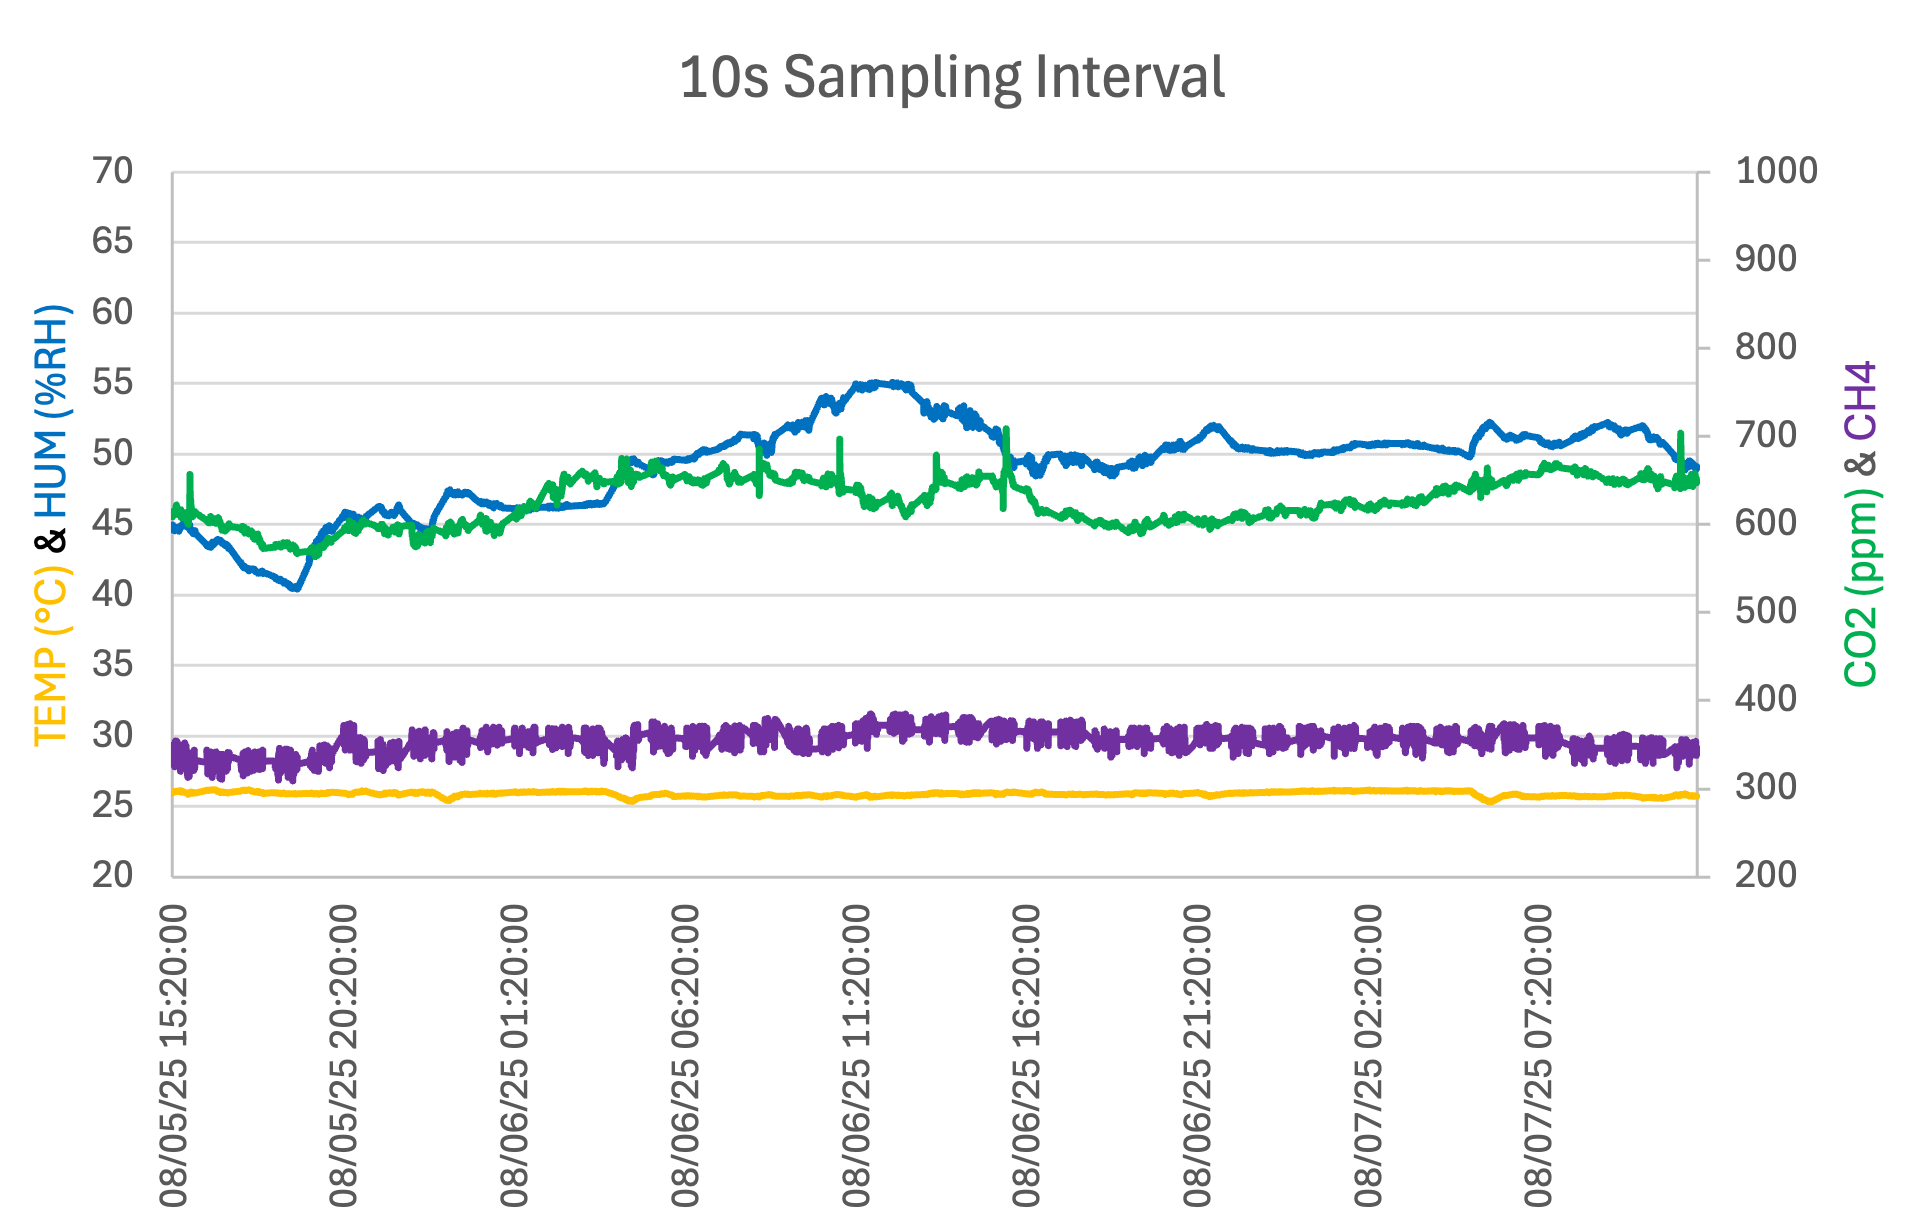
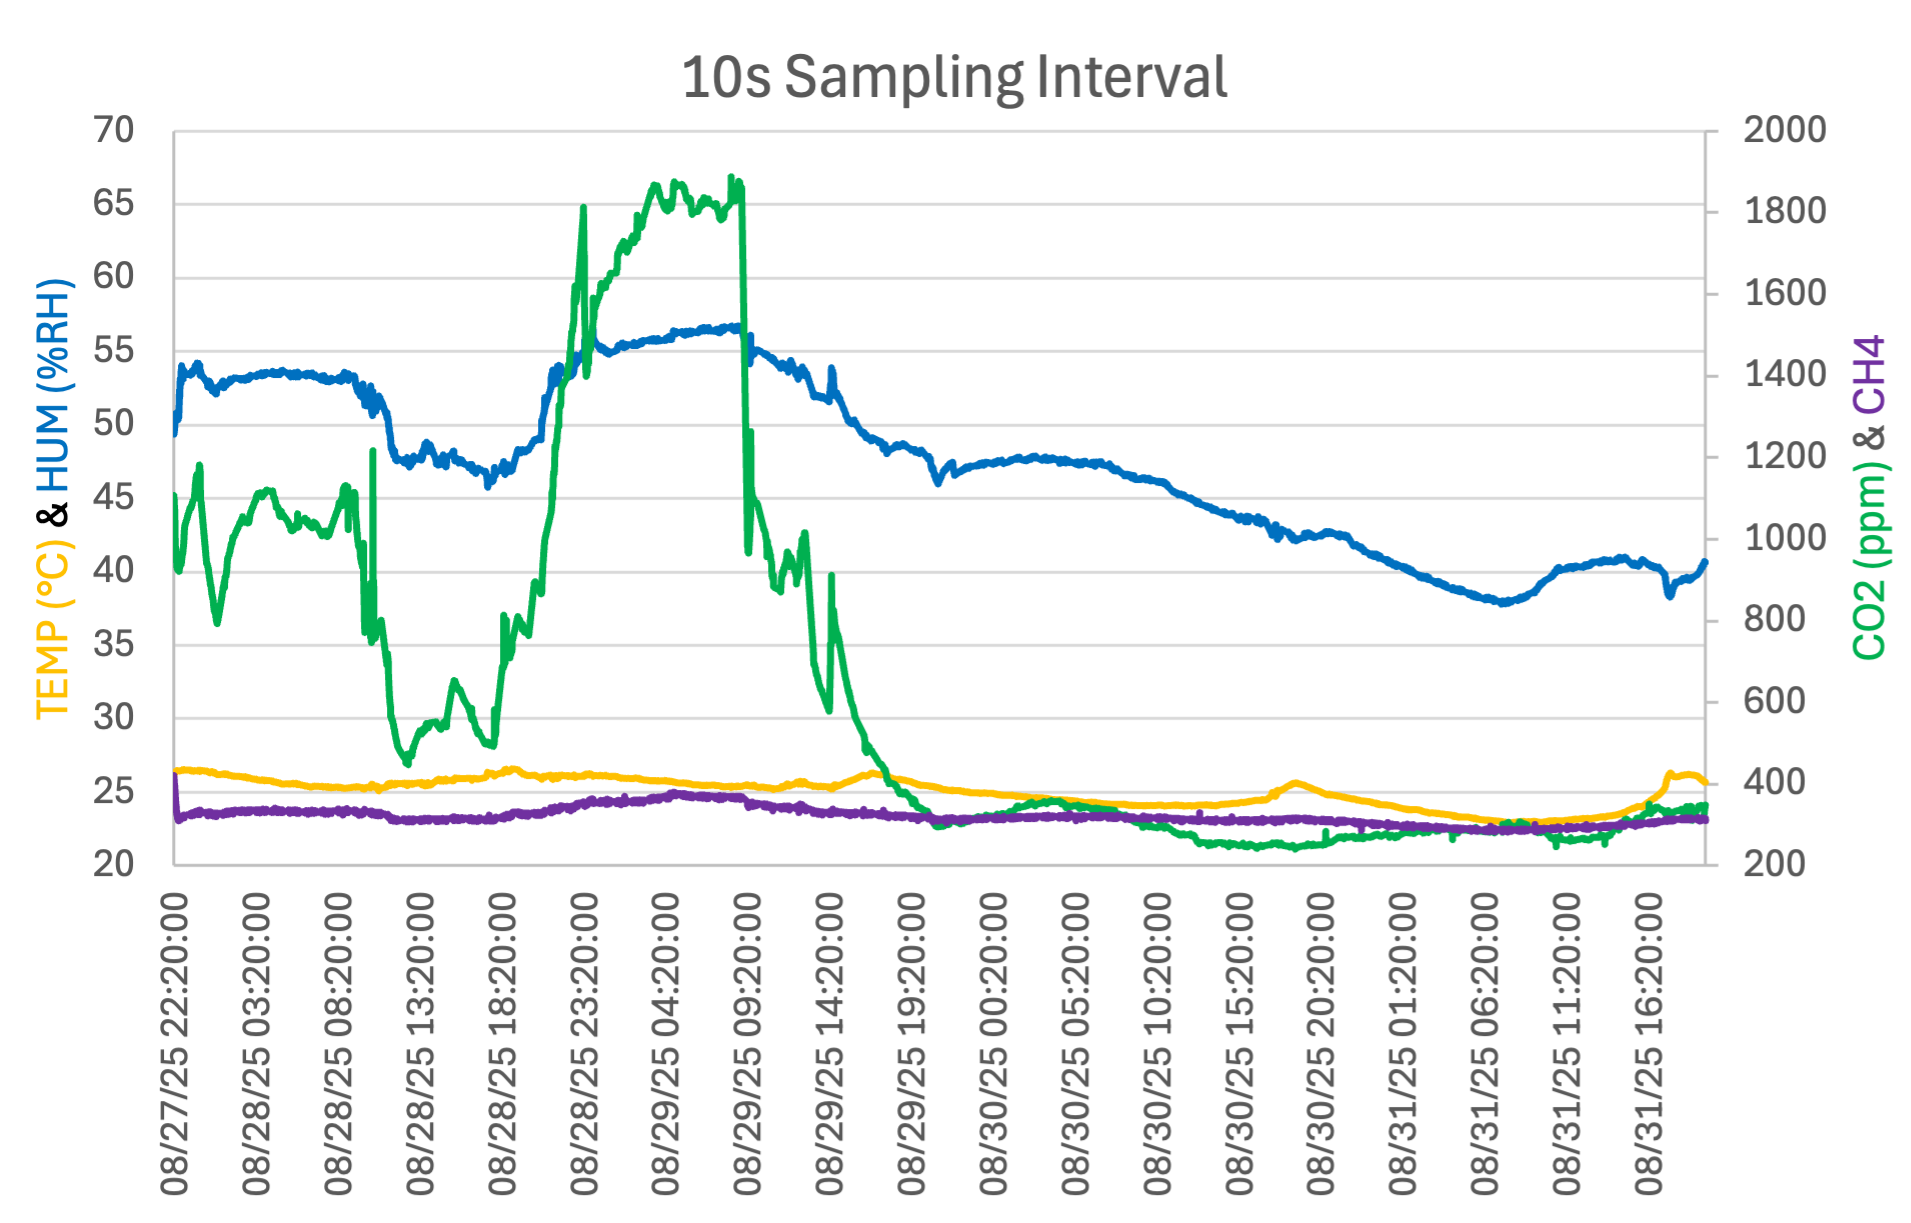
updated testing section

Changed region(s): [[0.0, 0.0932, 0.9906, 0.9943], [0.4643, 0.0311, 0.6501, 0.0932], [0.3715, 0.0621, 0.4024, 0.0932]]

diff --git a/Testing/Testing.html b/Testing/Testing.html
@@ -7509,9 +7509,9 @@ a.anchor-link {
 <li>Sensor reads every x sec (40 min total)</li>
 <li>Repeat</li>
 </ol>
-<p>The graph below illustrates the findings thus far, with further testing on other sampling intervals to come:</p>
+<p>The graph below illustrates the findings thus far: sampling intervals between the 2 to 10 second range have comparable error rates, however drastically increasing the sampling interval to 20 seconds greatly improves the error rate. Further testing will be completed on other sampling intervals to continue mapping out such behavior.</p>
 <img alt="Error Rate Graph" src="img/error_rate.png" width="400"/>
-<p>The experiments used an 88.8 Wh portable battery and are being redone for the 2s and 10s sampling interval tests to gauge the battery life at different intervals.</p>
+<p>The experiments used an 88.8 Wh portable battery charged to full capacity, with battery life varying between 80 and 90 hours. This comes out to a power draw of ~1 W, which when connected to a solar panel, has the potential to run indefinitely.</p>
 </div>
 </div>
 </div>
@@ -7525,13 +7525,13 @@ a.anchor-link {
 <table>
 <tr>
 <td>
-<img alt="2s" src="img/2s.png" width="490"/><br/>
+<img alt="2s" src="img/2s.png" width="493"/><br/>
 <ul>
-<li>65:41:06 elapsed time</li>
-<li>75,946 data points</li>
-<li>163 invalid data point</li>
-<li>65.685 cycles</li>
-<li>1,156 avg data pts per cycle</li>
+<li>91:04:01 elapsed time</li>
+<li>104,237 data points</li>
+<li>191 invalid data points (1 pico power cycle)</li>
+<li>91.067 cycles</li>
+<li>1,145 avg data pts per cycle</li>
 </ul>
 </td>
 <td>
@@ -7539,7 +7539,7 @@ a.anchor-link {
 <ul>
 <li>83:53:57 elapsed time</li>
 <li>39,824 data points</li>
-<li>47 invalid data point</li>
+<li>47 invalid data points</li>
 <li>83.899 cycles</li>
 <li>475 avg data pts per cycle</li>
 </ul>
@@ -7547,13 +7547,13 @@ a.anchor-link {
 </tr>
 <tr>
 <td>
-<img alt="10s" src="img/10s.png" width="490"/><br/>
+<img alt="10s" src="img/10s.png" width="493"/><br/>
 <ul>
-<li>44:39:49 elapsed time</li>
-<li>10,748 data points</li>
-<li>3 invalid data point</li>
-<li>44.664 cycles</li>
-<li>241 avg data pts per cycle</li>
+<li>93:49:42 elapsed time</li>
+<li>22,352 data points</li>
+<li>30 invalid data points</li>
+<li>93.828 cycles</li>
+<li>238 avg data pts per cycle</li>
 </ul>
 </td>
 <td>
@@ -7561,7 +7561,7 @@ a.anchor-link {
 <ul>
 <li>87:30:02 elapsed time</li>
 <li>10,383 data points</li>
-<li>1 invalid data point</li>
+<li>1 invalid data points</li>
 <li>87.501 cycles</li>
 <li>119 avg data pts per cycle</li>
 </ul>
